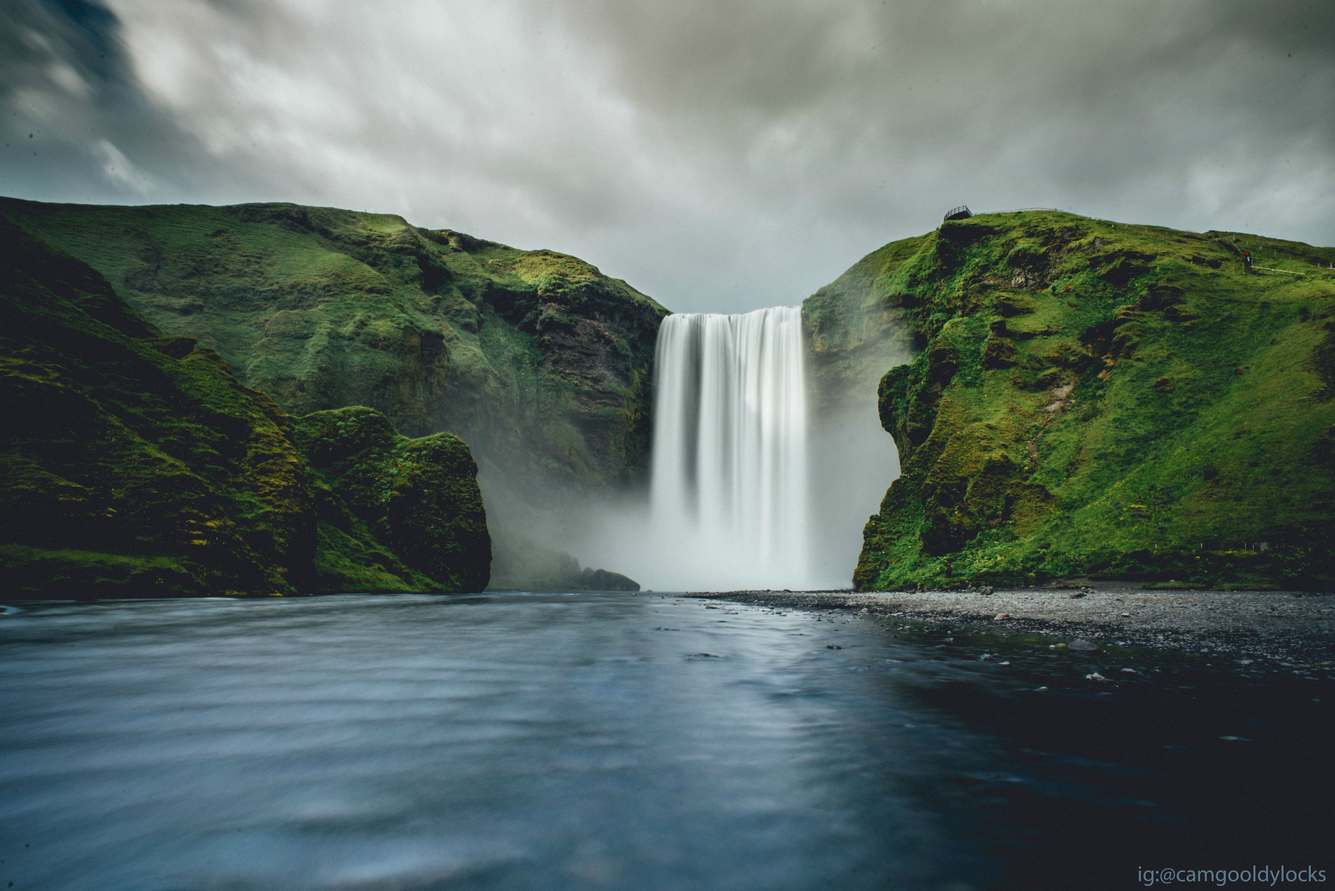
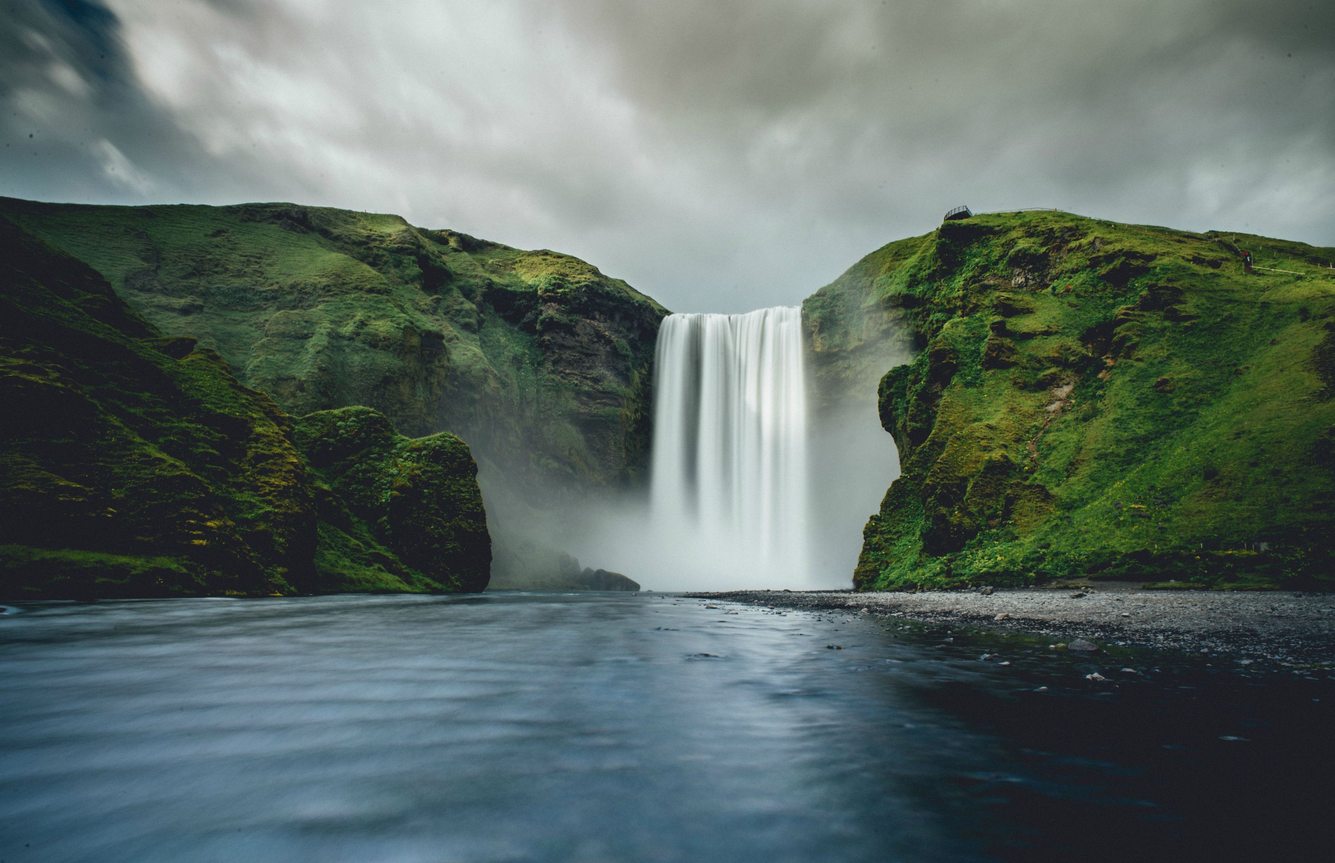
New Background/Attempted Twitter Fix

diff --git a/EXTENSION/pie.html b/EXTENSION/pie.html
@@ -29,19 +29,15 @@
 
 	<div class = 'twitter'>
 
-	<a class="twitter-timeline" href="https://twitter.com/ThePingrySchool" data-widget-id="720453719423381504" height = "30vw"></a>
-<script>!function(d,s,id){var js,fjs=d.getElementsByTagName(s)[0],p=/^http:/.test(d.location)?'http':'https';if(!d.getElementById(id)){js=d.createElement(s);js.id=id;js.src=p+"://platform.twitter.com/widgets.js";fjs.parentNode.insertBefore(js,fjs);}}(document,"script","twitter-wjs");</script>
-
-	</div>	
-
-	</div>
-
-
 	<script src="jquery.min.js"></script>
 	<script src="background.js"></script>
 	<script src="widget.js"></script>
+	
+	<a class="twitter-timeline" href="https://twitter.com/ThePingrySchool" data-widget-id="720453719423381504" height = "30vw"></a>
+<script>!function(d,s,id){var js,fjs=d.getElementsByTagName(s)[0];if(!d.getElementById(id)){js=d.createElement(s);js.id=id;js.src="https://platform.twitter.com/widgets.js";fjs.parentNode.insertBefore(js,fjs);}}(document,"script","twitter-wjs");</script>
+	</div>	
 
-
+	</div>
 
 </body>
 </html>

diff --git a/EXTENSION/widget.js b/EXTENSION/widget.js
@@ -4,6 +4,7 @@
 *		Time
 *		Date
 *		Weather
+*		Twitter
 */
 
 $(document).ready(function(){
@@ -32,6 +33,22 @@ $(document).ready(function(){
 		document.getElementById("date").innerHTML = d.toDateString();
 		setTimeout(function(){ startTime(); }, 1000);
 	}
+	
+	rewrites = [
+	  [/chrome-extension:\/\/([a-z]+)\.twitter\.com/, 'https://$1.twitter.com'],
+	  [/chrome-extension:\/\/([a-z]+)\.twimg\.com/, 'https://$1.twimg.com']
+	];
+
+	document.addEventListener('beforeload', function(e){
+	  for (var i = 0, rule; rule = rewrites[i]; i++) {
+	    if (rule[0].test(e.url)) {
+	      e.preventDefault();
+	      e.stopPropagation();
+	      e.srcElement.src = e.srcElement.src.replace(rule[0], rule[1]);
+	      break;
+	    }
+	  }
+	}, true);
 	
 	startTime();
 	

diff --git a/EXTENSION/pie.css b/EXTENSION/pie.css
@@ -15,6 +15,8 @@ html, body {
 	font-size: 30px;
 	text-align: center;
 	color: white; 
+	font-family: "Arial", Times, serif;
+	font-weight: bold;
 	cursor: default;
 	/*text-shadow: 0px 0px 1px black;*/
 	-webkit-user-select: none; /* Chrome/Safari */        
@@ -69,7 +71,7 @@ h3 {
 
 .twitter {
 	position: fixed;
-	width: 100px;
+	width: 80px;
 	height: 300px;
 	left: 10px;
 	bottom: -245px;
@@ -78,7 +80,7 @@ h3 {
 
 .twitter:hover{
 	position: fixed;
-	width: 300px;
+	width: 200px;
 	height: 300px;
 	left: 0px;
 	bottom: 0px;

diff --git a/EXTENSION/background.js b/EXTENSION/background.js
@@ -1,6 +1,6 @@
 $(document).ready(function(){
 	$(document.body).css("background-size", "cover");
-	$(document.body).css("background-image", "url('photos/Image" + (~~(Math.random() * 7) + 1) + ".jpg')");
+	$(document.body).css("background-image", "url('photos/Image" + (~~(Math.random() * 8) + 1) + ".jpg')");
 
 
 	$(".stage1").fadeOut(2000);
